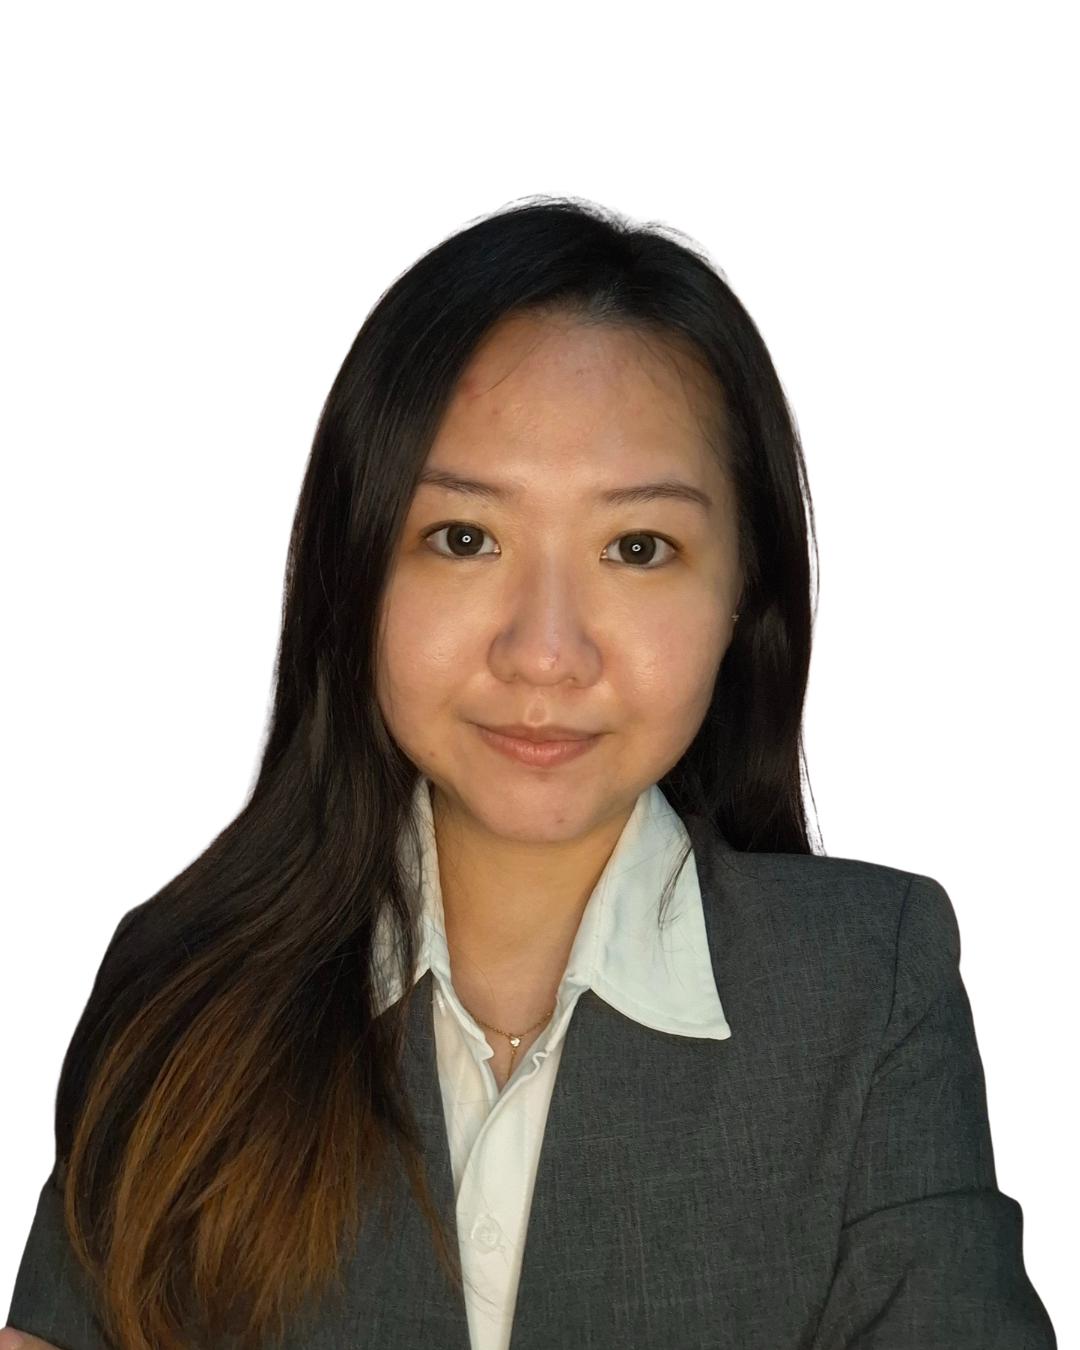
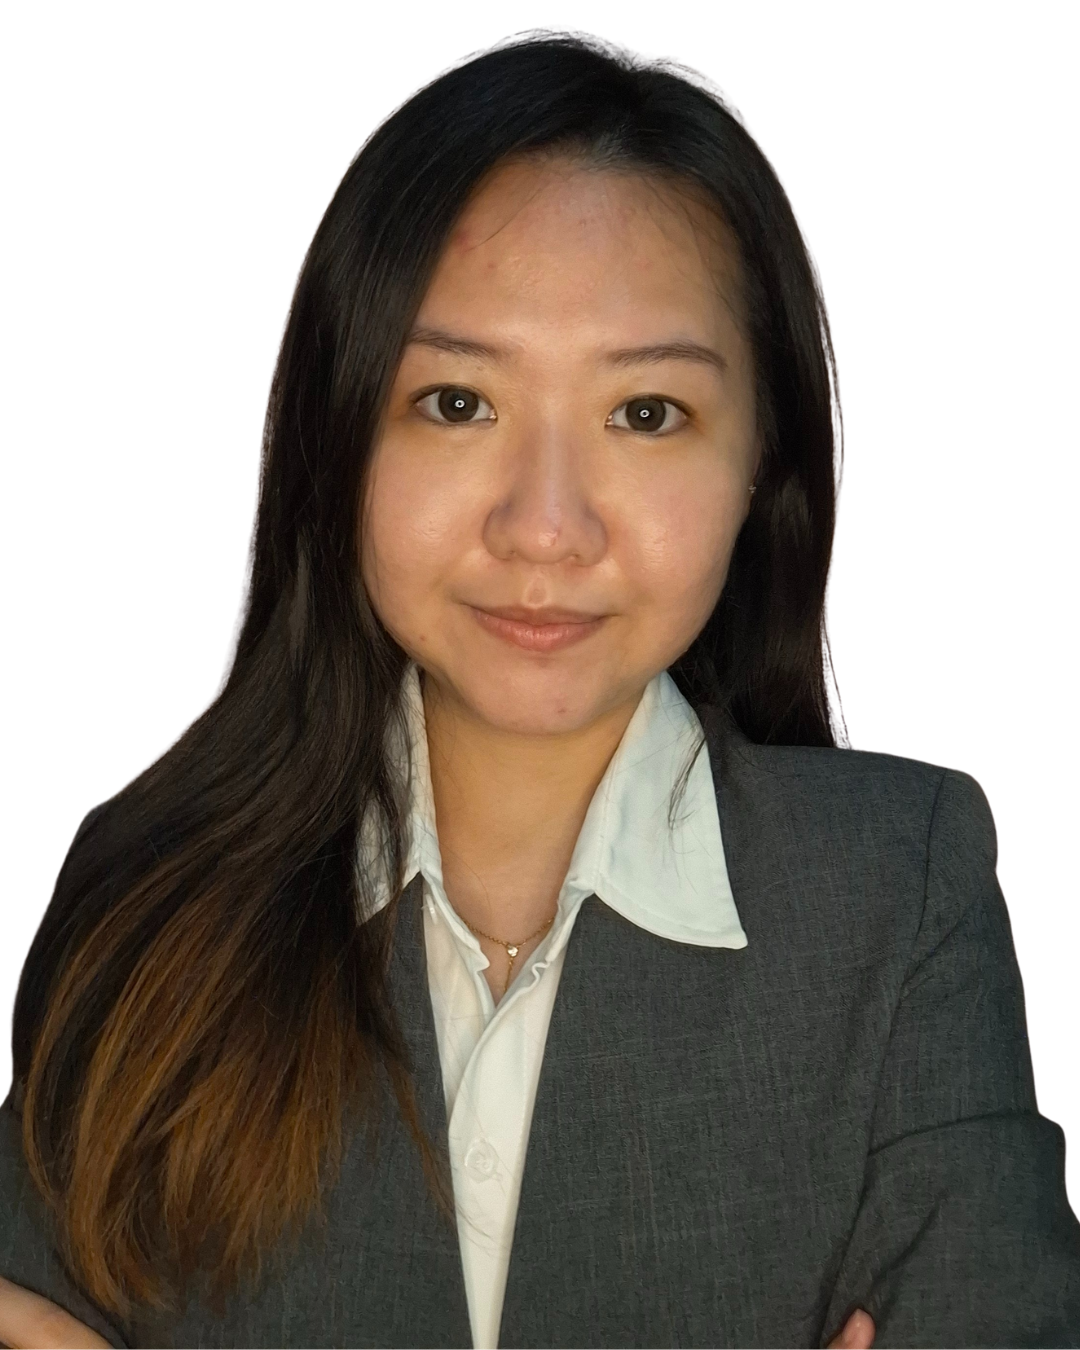
Adds motion library and improves contact page design
Introduces the motion package and supporting dependencies for future animation needs.

Updates contact page visuals with larger, bolder typography, a new profile image, and an enhanced call-to-action button for better user engagement and accessibility.

diff --git a/src/app/yenyen/page.tsx b/src/app/yenyen/page.tsx
@@ -6,9 +6,9 @@ import Link from 'next/link';
 
 const YenYenPage = () => {
   return (
-    <div className="flex flex-col items-center gap-6 py-10 bg-red-800">
-      <h1 className="text-2xl font-bold">Hubungi Kami</h1>
-      <h2 className="text-lg text-center">
+    <div className="flex flex-col items-center gap-6 py-10 bg-red-800 min-h-svh">
+      <h1 className="text-4xl font-bold">Hubungi Kami</h1>
+      <h2 className="text-2xl text-center">
         Order dan Konsultasi Aulora Pants melalui Whatsapp
       </h2>
 
@@ -16,14 +16,14 @@ const YenYenPage = () => {
         src={assets.profileYen}
         alt="Foto Profil Yen Yen"
         quality={100}
-        width={200}
-        height={250}
+        width={350}
+        height={437.5}
         className="rounded-lg"
       />
 
       <Link href="https://wa.me/628999524888">
-        <Button className="bg-green-600 py-5 px-10 text-white hover:bg-green-700 flex items-center gap-2">
-          <Phone className="w-6 h-6" /> Hubungi Yen Yen
+        <Button className="bg-[#166534] py-10 px-20 min-w-md text-white hover:bg-green-700 flex items-center gap-4 text-2xl font-semibold">
+          <Phone /> Hubungi Yen Yen
         </Button>
       </Link>
     </div>
